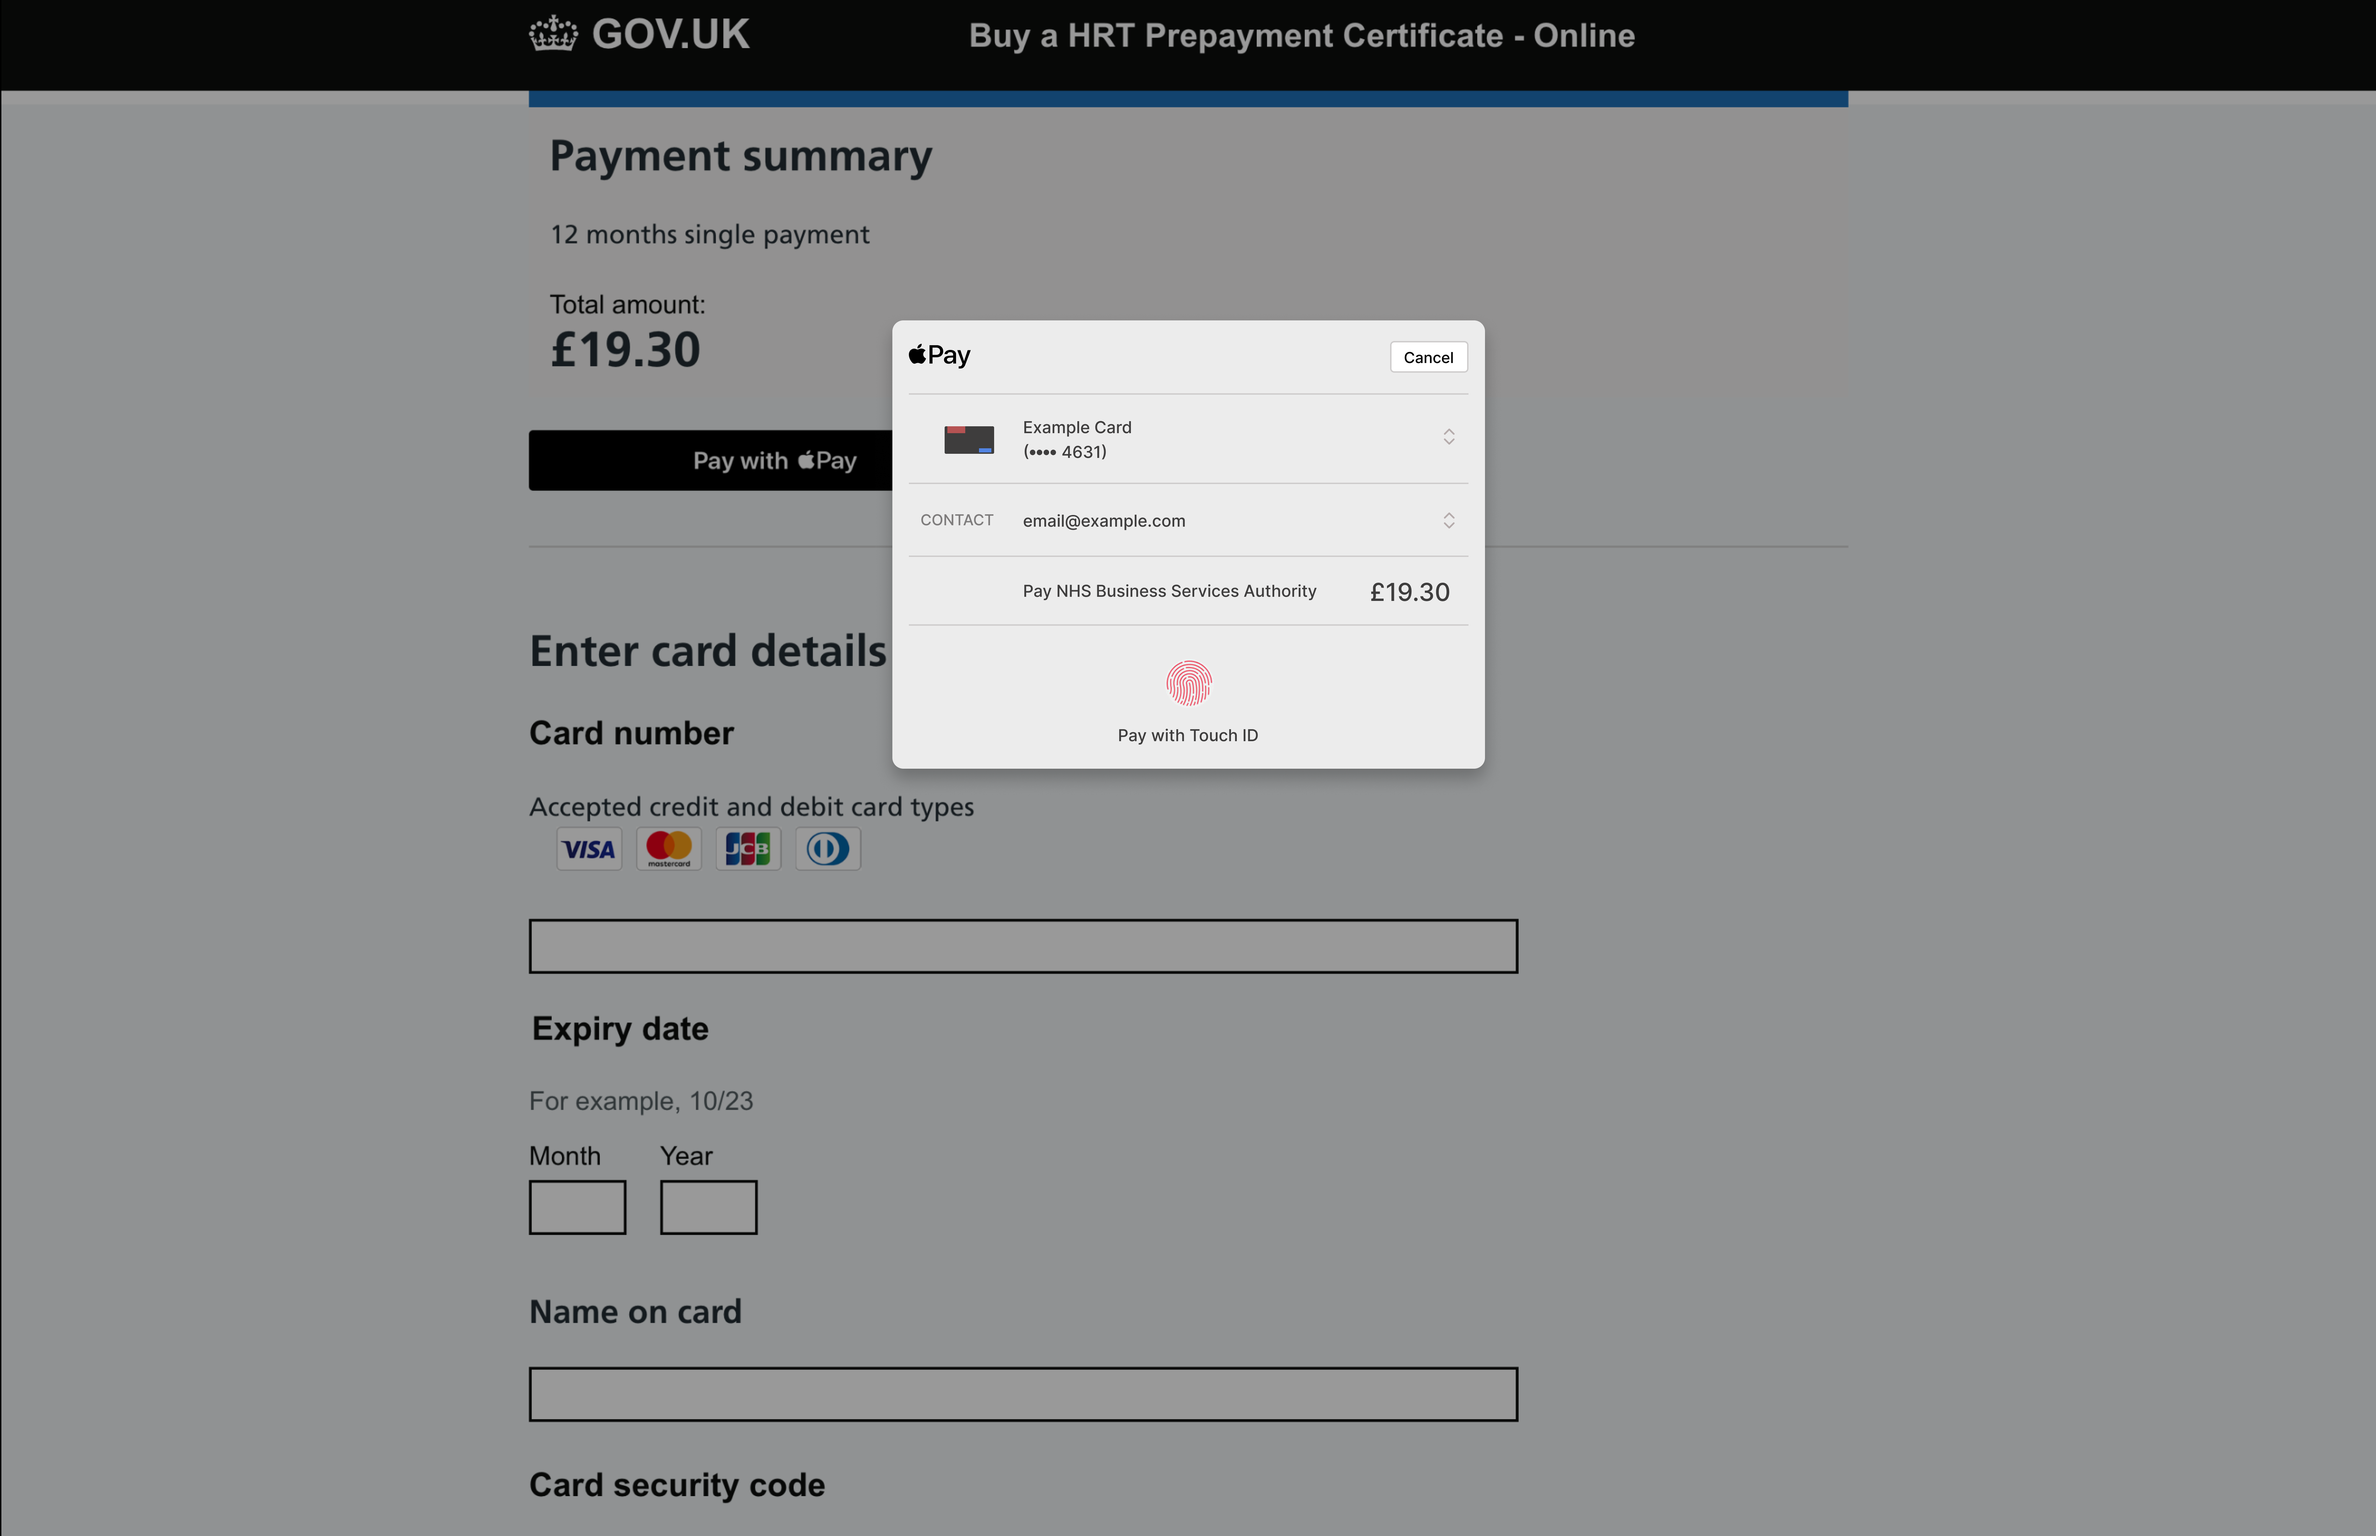
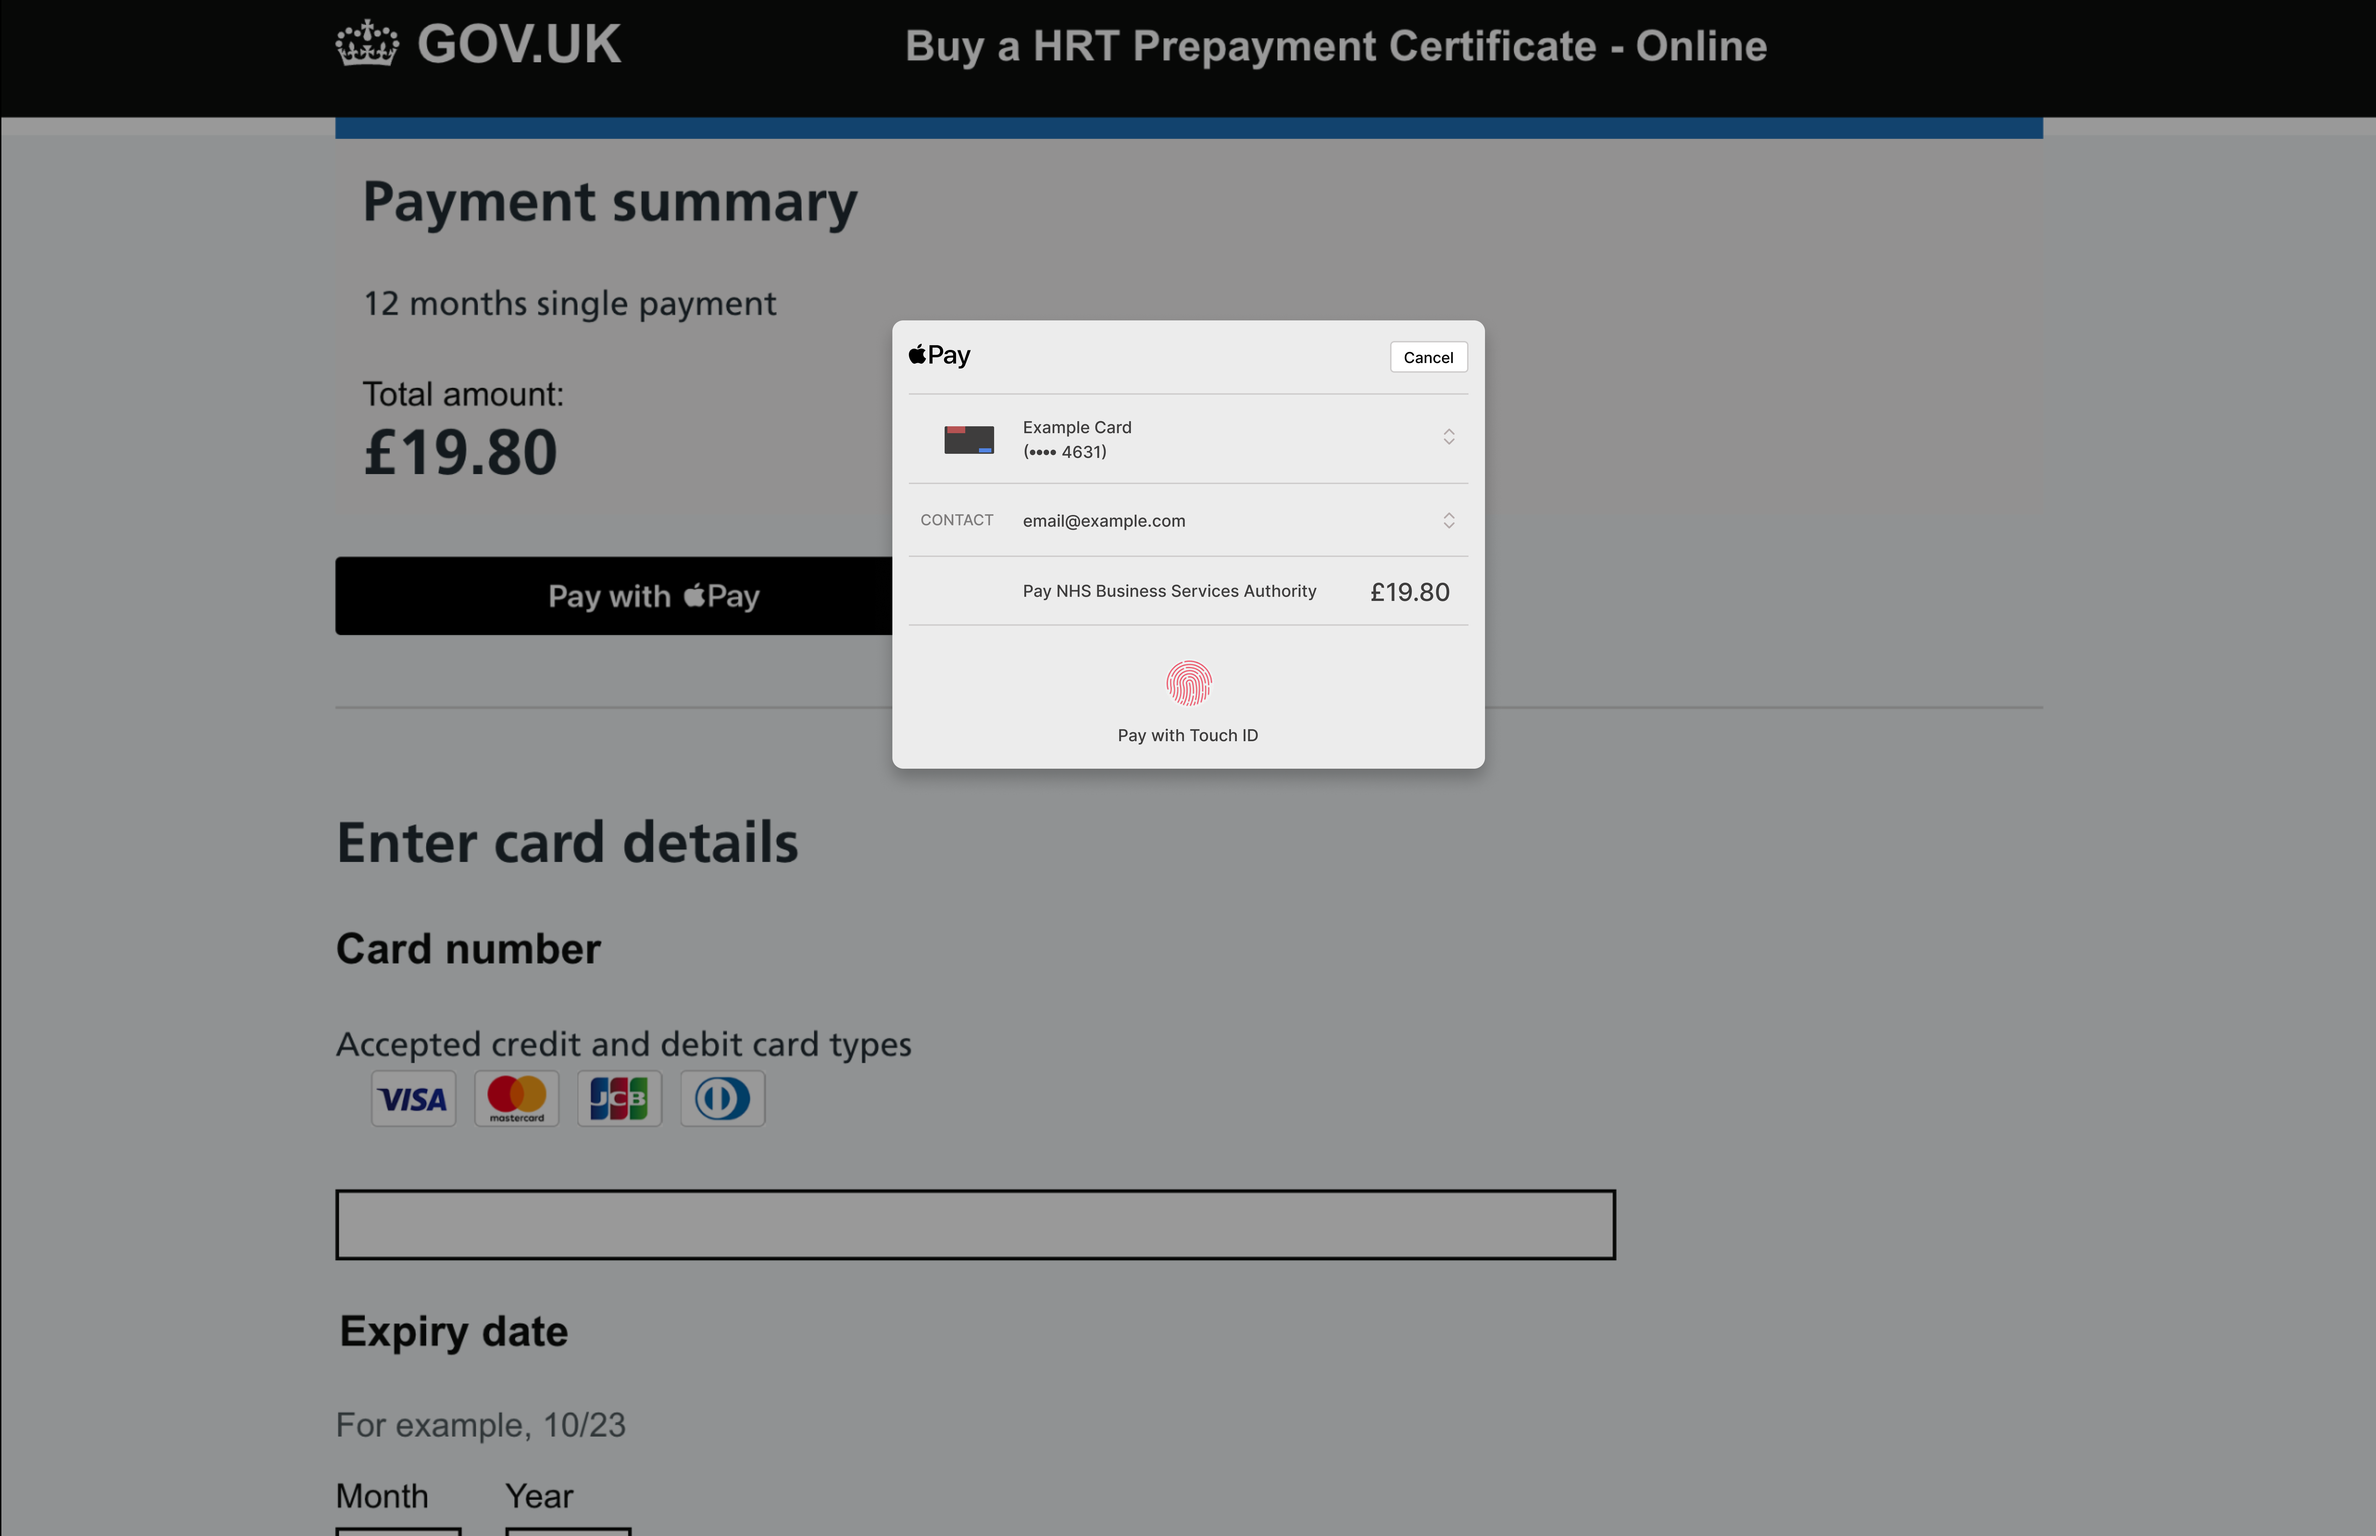
HRT price change updates

diff --git a/app/views/v10/start.html b/app/views/v10/start.html
@@ -74,7 +74,7 @@
       <p>
         If you pay for NHS prescribed HRT medicine 3 or more times in 12 months, an HRT PPC could save you money.<br><br>
         
-        Each item on an NHS prescription usually costs £9.65. You can buy an HRT PPC for a one-off payment of £19.30 (the cost of two items). <br><br>This covers you for an unlimited number of certain HRT prescriptions for 12 
+        Each item on an NHS prescription usually costs £9.90. You can buy an HRT PPC for a one-off payment of £19.80 (the cost of two items). <br><br>This covers you for an unlimited number of certain HRT prescriptions for 12 
         months. 
 
 

diff --git a/app/views/v10/payment-apple-pay-mobile.html b/app/views/v10/payment-apple-pay-mobile.html
@@ -21,12 +21,12 @@
         Total amount:
         
       </p>
-      <span id="amount" class="amount govuk-!-font-size-36 govuk-!-font-weight-bold" style="font-size:36px !important;">£19.30</span>
+      <span id="amount" class="amount govuk-!-font-size-36 govuk-!-font-weight-bold" style="font-size:36px !important;">£19.80</span>
   </div>
 
   <br>
 
-      <a href="/v10/apple-pay-pop-up">
+      <a href="/v10/apple-pay-mobile-pop-up">
         <img alt="Pay with Apple Pay button" src="/images/pay-with-apple-pay-button.png" width="100%" height="44" data-inline="true">
       </a>
 

diff --git a/app/views/v10/payment-google-pay-mobile.html b/app/views/v10/payment-google-pay-mobile.html
@@ -21,12 +21,12 @@
         Total amount:
         
       </p>
-      <span id="amount" class="amount govuk-!-font-size-36 govuk-!-font-weight-bold" style="font-size:36px !important;">£19.30</span>
+      <span id="amount" class="amount govuk-!-font-size-36 govuk-!-font-weight-bold" style="font-size:36px !important;">£19.80</span>
   </div>
 
   <br>
 
-  <a href="/v10/google-pay-pop-up">
+  <a href="/v10/google-pay-mobile-pop-up">
     <img alt="Pay with Google Pay button" src="/images/pay-with-google-pay-button.png" width="100%" height="44" data-inline="true">
   </a>
 

diff --git a/app/views/index.html b/app/views/index.html
@@ -49,7 +49,7 @@
 
       <p>
         The government in association with Department of Health has pushed for a private bill to reduce the cost of drugs prescribed to a person in England undergoing Hormone Replacement Therapy. 
-       Where a single purchase would give free entitlement to the Drugs for a period of 12 months at the cost of £18:70.
+       Where a single purchase would give free entitlement to the Drugs for a period of 12 months at the cost of £19.80.
       </p>
 
       <h2>

diff --git a/app/views/v10/payment-post.html b/app/views/v10/payment-post.html
@@ -23,7 +23,7 @@
               Total amount:
               
             </p>
-            <span id="amount" class="amount govuk-!-font-size-36 govuk-!-font-weight-bold" style="font-size:36px !important;">£19.30</span>
+            <span id="amount" class="amount govuk-!-font-size-36 govuk-!-font-weight-bold" style="font-size:36px !important;">£19.80</span>
         </div>
 
         <form id="card-details" style="margin-top:20px;">

diff --git a/app/views/v10/payment.html b/app/views/v10/payment.html
@@ -23,7 +23,7 @@
               Total amount:
               
             </p>
-            <span id="amount" class="amount govuk-!-font-size-36 govuk-!-font-weight-bold" style="font-size:36px !important;">£19.30</span>
+            <span id="amount" class="amount govuk-!-font-size-36 govuk-!-font-weight-bold" style="font-size:36px !important;">£19.80</span>
         </div>
 
         <form id="card-details" style="margin-top:20px;">

diff --git a/app/views/v10/payment-confirmed-print.html b/app/views/v10/payment-confirmed-print.html
@@ -23,7 +23,7 @@
               Total amount:
               
             </p>
-            <span id="amount" class="amount govuk-!-font-size-36 govuk-!-font-weight-bold" style="font-size:36px !important;">£19.30</span>
+            <span id="amount" class="amount govuk-!-font-size-36 govuk-!-font-weight-bold" style="font-size:36px !important;">£19.80</span>
         </div>
 
         <dl class="govuk-summary-list">

diff --git a/app/views/v10/payment-confirmed.html b/app/views/v10/payment-confirmed.html
@@ -23,7 +23,7 @@
               Total amount:
               
             </p>
-            <span id="amount" class="amount govuk-!-font-size-36 govuk-!-font-weight-bold" style="font-size:36px !important;">£19.30</span>
+            <span id="amount" class="amount govuk-!-font-size-36 govuk-!-font-weight-bold" style="font-size:36px !important;">£19.80</span>
         </div>
 
         <dl class="govuk-summary-list">

diff --git a/app/views/v10/payment-apple-pay.html b/app/views/v10/payment-apple-pay.html
@@ -21,7 +21,7 @@
         Total amount:
         
       </p>
-      <span id="amount" class="amount govuk-!-font-size-36 govuk-!-font-weight-bold" style="font-size:36px !important;">£19.30</span>
+      <span id="amount" class="amount govuk-!-font-size-36 govuk-!-font-weight-bold" style="font-size:36px !important;">£19.80</span>
   </div>
 
   <br>

diff --git a/app/views/v10/payment-google-pay.html b/app/views/v10/payment-google-pay.html
@@ -21,7 +21,7 @@
         Total amount:
         
       </p>
-      <span id="amount" class="amount govuk-!-font-size-36 govuk-!-font-weight-bold" style="font-size:36px !important;">£19.30</span>
+      <span id="amount" class="amount govuk-!-font-size-36 govuk-!-font-weight-bold" style="font-size:36px !important;">£19.80</span>
   </div>
 
   <br>

diff --git a/app/views/v10/google-pay-mobile-pop-up.html b/app/views/v10/google-pay-mobile-pop-up.html
@@ -1,5 +1,5 @@
 <a href="/v10/experimental/application-complete-email-twobuttons-google-wallet">
-<img src="/images/google-pay-pop-up.png" data-inline="true">
+<img src="/images/google-pay-mobile-pop-up.png" data-inline="true">
 </a>
 
 <style>

diff --git a/app/views/v10/check-your-answers-2.html b/app/views/v10/check-your-answers-2.html
@@ -232,7 +232,7 @@
               text: "Total cost"
             },
             value: {
-              html: "£18.70"
+              html: "£19.80"
             }
             ,
             actions: 
